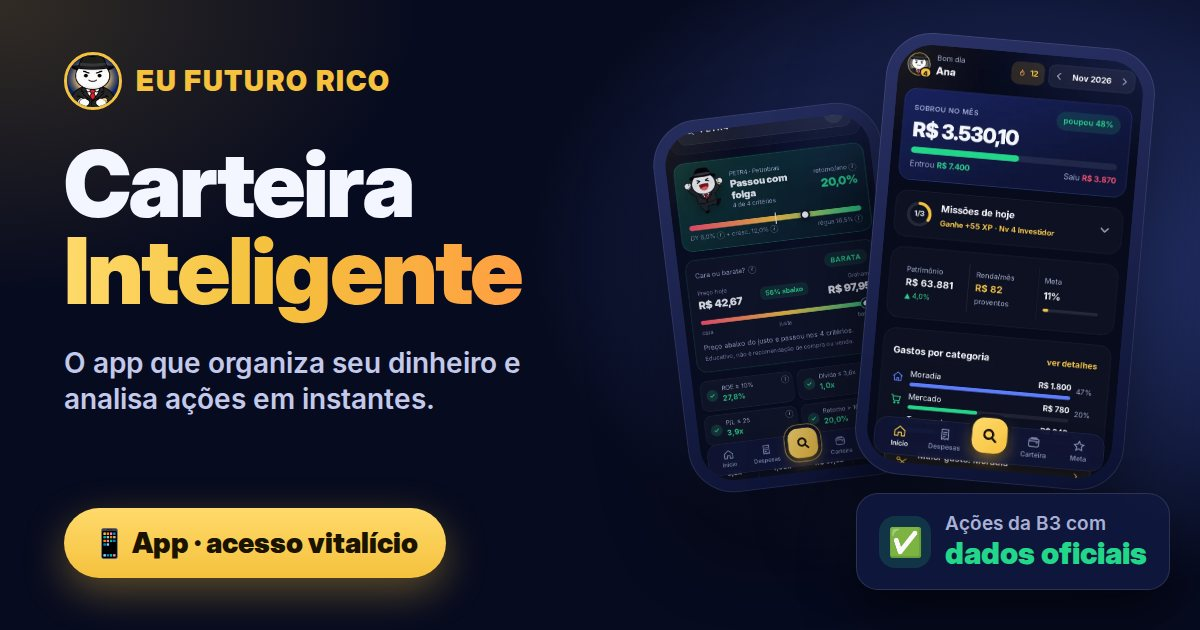
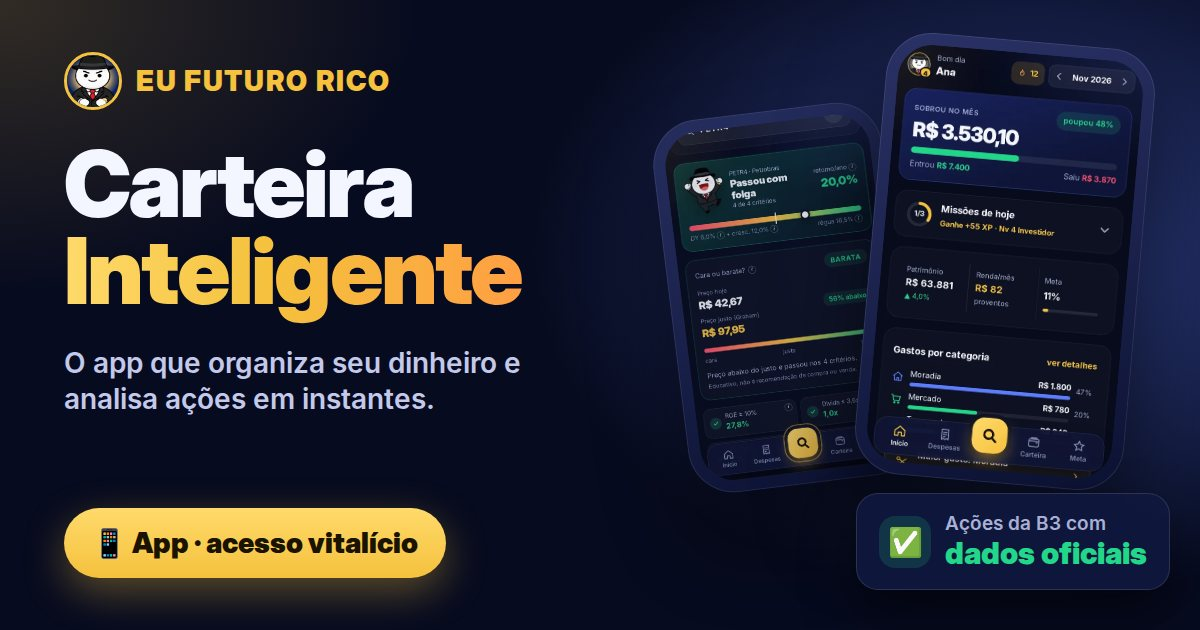
oferta: imagens atualizadas a partir do app

Changed region(s): [[0.5858, 0.4222, 0.74, 0.6937], [0.6783, 0.6333, 0.7092, 0.6937]]

diff --git a/oferta/index.html b/oferta/index.html
@@ -9,7 +9,7 @@
 <meta name="theme-color" content="#070B1F">
 <meta property="og:title" content="Carteira Inteligente · Eu Futuro Rico">
 <meta property="og:description" content="Organize o mês, analise ações em instantes e acompanhe sua renda passiva. Dados oficiais do Banco Central, CVM e B3.">
-<meta property="og:image" content="https://eufuturorico.netlify.app/oferta/img/og.jpg?v=9c20d4d7">
+<meta property="og:image" content="https://eufuturorico.netlify.app/oferta/img/og.jpg?v=f79b86c8">
 <meta property="og:image:width" content="1200">
 <meta property="og:image:height" content="630">
 <meta property="og:image:alt" content="App Carteira Inteligente do Eu Futuro Rico">
@@ -22,11 +22,11 @@
 <meta name="twitter:card" content="summary_large_image">
 <meta name="twitter:title" content="Carteira Inteligente · Eu Futuro Rico">
 <meta name="twitter:description" content="Descubra em instantes se uma ação vale o seu dinheiro. Orçamento, análise de ações, carteira e renda passiva no celular.">
-<meta name="twitter:image" content="https://eufuturorico.netlify.app/oferta/img/og.jpg?v=9c20d4d7">
+<meta name="twitter:image" content="https://eufuturorico.netlify.app/oferta/img/og.jpg?v=f79b86c8">
 <meta name="robots" content="index,follow,max-image-preview:large">
 <link rel="canonical" href="https://eufuturorico.netlify.app/oferta/">
 <link rel="apple-touch-icon" href="/img/apple-touch-icon.png">
-<script type="application/ld+json">[{"@context": "https://schema.org", "@type": "Product", "name": "Carteira Inteligente", "description": "App de celular que organiza o orçamento, analisa quase 300 ações da B3 em instantes com dados oficiais (CVM, B3 e Banco Central), acompanha carteira e proventos e calcula quando você vive de renda.", "image": ["https://eufuturorico.netlify.app/oferta/img/og.jpg?v=9c20d4d7", "https://eufuturorico.netlify.app/oferta/img/home.webp?v=c1c7df7a"], "brand": {"@type": "Brand", "name": "Eu Futuro Rico"}, "category": "Finanças pessoais", "offers": {"@type": "Offer", "url": "https://eufuturorico.netlify.app/oferta/", "price": "47.00", "priceCurrency": "BRL", "availability": "https://schema.org/InStock", "priceValidUntil": "2027-12-31", "hasMerchantReturnPolicy": {"@type": "MerchantReturnPolicy", "applicableCountry": "BR", "returnPolicyCategory": "https://schema.org/MerchantReturnFiniteReturnWindow", "merchantReturnDays": 7, "returnFees": "https://schema.org/FreeReturn"}}}, {"@context": "https://schema.org", "@type": "FAQPage", "mainEntity": [{"@type": "Question", "name": "Preciso baixar na App Store ou Play Store?", "acceptedAnswer": {"@type": "Answer", "text": "Não. O app abre pelo navegador do celular e você instala na tela inicial com dois toques. Ele fica com ícone, abre em tela cheia e funciona até sem internet."}}, {"@type": "Question", "name": "Funciona no iPhone e no Android?", "acceptedAnswer": {"@type": "Answer", "text": "Sim, nos dois. Também abre no computador, se você quiser."}}, {"@type": "Question", "name": "Como eu acesso depois de comprar?", "acceptedAnswer": {"@type": "Answer", "text": "Abra eufuturorico.netlify.app e digite o mesmo e-mail que você usou na compra. Você recebe um código de 6 números e entra. O acesso fica salvo no seu celular por 6 meses e é renovado quando você entrar de novo."}}, {"@type": "Question", "name": "É assinatura? Vou pagar todo mês?", "acceptedAnswer": {"@type": "Answer", "text": "Não. É um pagamento único de R$ 47, com acesso vitalício e todas as atualizações futuras incluídas."}}, {"@type": "Question", "name": "Onde ficam meus dados? Alguém vê meus gastos?", "acceptedAnswer": {"@type": "Answer", "text": "Seus lançamentos e sua carteira ficam salvos só no seu celular. Ninguém vê, nem nós. Os dados não passam sozinhos para outro aparelho; para trocar de celular, use o botão de backup do app e restaure no aparelho novo."}}, {"@type": "Question", "name": "Preciso entender de investimentos?", "acceptedAnswer": {"@type": "Answer", "text": "Não. Cada número tem um botão ⓘ que explica em linguagem simples o que ele mostra e como ler. A lição do dia também ensina um conceito por dia."}}, {"@type": "Question", "name": "O app recomenda quais ações comprar?", "acceptedAnswer": {"@type": "Answer", "text": "Não. É uma ferramenta educativa: ela aplica critérios objetivos e mostra os números, mas a decisão é sempre sua. Nenhum resultado é recomendação de compra ou venda."}}, {"@type": "Question", "name": "E se eu não gostar?", "acceptedAnswer": {"@type": "Answer", "text": "Você tem 7 dias de garantia incondicional. Pede o reembolso pela Kiwify e recebe 100% de volta."}}]}]</script>
+<script type="application/ld+json">[{"@context": "https://schema.org", "@type": "Product", "name": "Carteira Inteligente", "description": "App de celular que organiza o orçamento, analisa quase 300 ações da B3 em instantes com dados oficiais (CVM, B3 e Banco Central), acompanha carteira e proventos e calcula quando você vive de renda.", "image": ["https://eufuturorico.netlify.app/oferta/img/og.jpg?v=f79b86c8", "https://eufuturorico.netlify.app/oferta/img/home.webp?v=c1c7df7a"], "brand": {"@type": "Brand", "name": "Eu Futuro Rico"}, "category": "Finanças pessoais", "offers": {"@type": "Offer", "url": "https://eufuturorico.netlify.app/oferta/", "price": "47.00", "priceCurrency": "BRL", "availability": "https://schema.org/InStock", "priceValidUntil": "2027-12-31", "hasMerchantReturnPolicy": {"@type": "MerchantReturnPolicy", "applicableCountry": "BR", "returnPolicyCategory": "https://schema.org/MerchantReturnFiniteReturnWindow", "merchantReturnDays": 7, "returnFees": "https://schema.org/FreeReturn"}}}, {"@context": "https://schema.org", "@type": "FAQPage", "mainEntity": [{"@type": "Question", "name": "Preciso baixar na App Store ou Play Store?", "acceptedAnswer": {"@type": "Answer", "text": "Não. O app abre pelo navegador do celular e você instala na tela inicial com dois toques. Ele fica com ícone, abre em tela cheia e funciona até sem internet."}}, {"@type": "Question", "name": "Funciona no iPhone e no Android?", "acceptedAnswer": {"@type": "Answer", "text": "Sim, nos dois. Também abre no computador, se você quiser."}}, {"@type": "Question", "name": "Como eu acesso depois de comprar?", "acceptedAnswer": {"@type": "Answer", "text": "Abra eufuturorico.netlify.app e digite o mesmo e-mail que você usou na compra. Você recebe um código de 6 números e entra. O acesso fica salvo no seu celular por 6 meses e é renovado quando você entrar de novo."}}, {"@type": "Question", "name": "É assinatura? Vou pagar todo mês?", "acceptedAnswer": {"@type": "Answer", "text": "Não. É um pagamento único de R$ 47, com acesso vitalício e todas as atualizações futuras incluídas."}}, {"@type": "Question", "name": "Onde ficam meus dados? Alguém vê meus gastos?", "acceptedAnswer": {"@type": "Answer", "text": "Seus lançamentos e sua carteira ficam salvos só no seu celular. Ninguém vê, nem nós. Os dados não passam sozinhos para outro aparelho; para trocar de celular, use o botão de backup do app e restaure no aparelho novo."}}, {"@type": "Question", "name": "Preciso entender de investimentos?", "acceptedAnswer": {"@type": "Answer", "text": "Não. Cada número tem um botão ⓘ que explica em linguagem simples o que ele mostra e como ler. A lição do dia também ensina um conceito por dia."}}, {"@type": "Question", "name": "O app recomenda quais ações comprar?", "acceptedAnswer": {"@type": "Answer", "text": "Não. É uma ferramenta educativa: ela aplica critérios objetivos e mostra os números, mas a decisão é sempre sua. Nenhum resultado é recomendação de compra ou venda."}}, {"@type": "Question", "name": "E se eu não gostar?", "acceptedAnswer": {"@type": "Answer", "text": "Você tem 7 dias de garantia incondicional. Pede o reembolso pela Kiwify e recebe 100% de volta."}}]}]</script>
 <link rel="icon" type="image/png" href="/img/favicon.png">
 <link rel="preload" href="/fonts/InterDisplay-Black.woff2" as="font" type="font/woff2" crossorigin>
 <link rel="preload" href="/fonts/Inter-Regular.woff2" as="font" type="font/woff2" crossorigin>
@@ -405,7 +405,7 @@ section[id]{scroll-margin-top:60px}
           <li><svg class="ico"><use href="#i-seta"/></svg><span><b>Compartilhe a análise como imagem</b> pronta para Stories e WhatsApp.</span></li>
         </ul>
       </div>
-      <div class="vis"><div class="phone"><img src="/oferta/img/analise.webp?v=d28b6ca0" alt="Tela de análise de ação com o resultado 'Passou com folga' e os 4 critérios" loading="lazy" width="585" height="996"></div></div>
+      <div class="vis"><div class="phone"><img src="/oferta/img/analise.webp?v=488b668c" alt="Tela de análise de ação com o resultado 'Passou com folga' e os 4 critérios" loading="lazy" width="585" height="996"></div></div>
     </div>
 
     <div class="pane" role="tabpanel" id="p2" aria-labelledby="t2" hidden>
